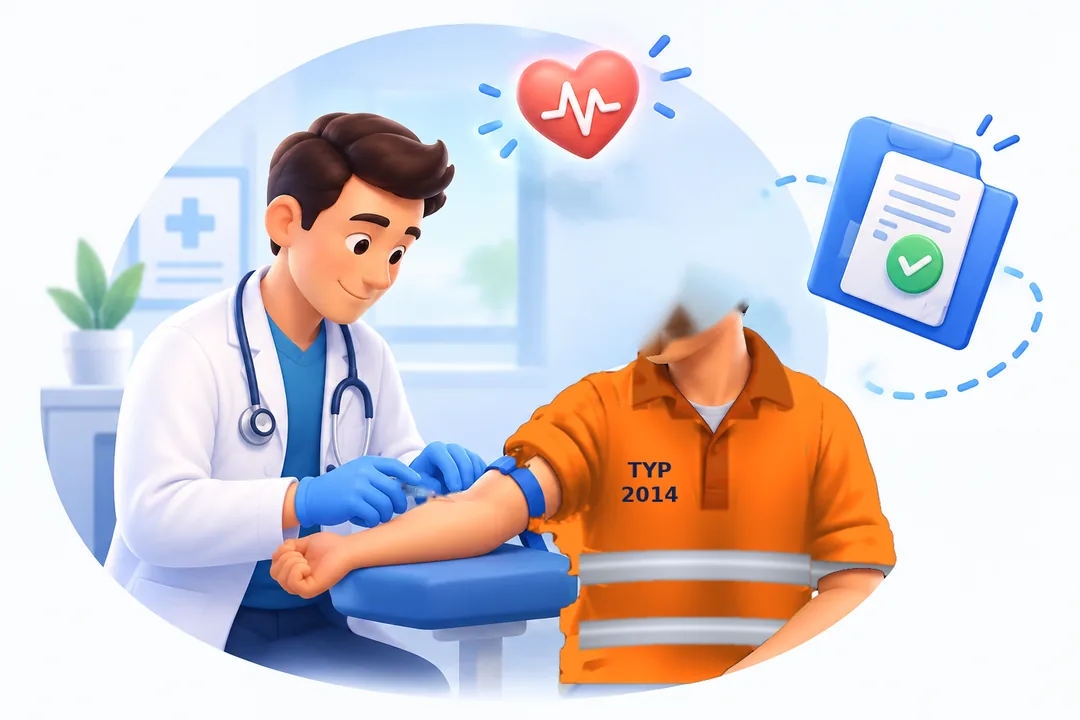
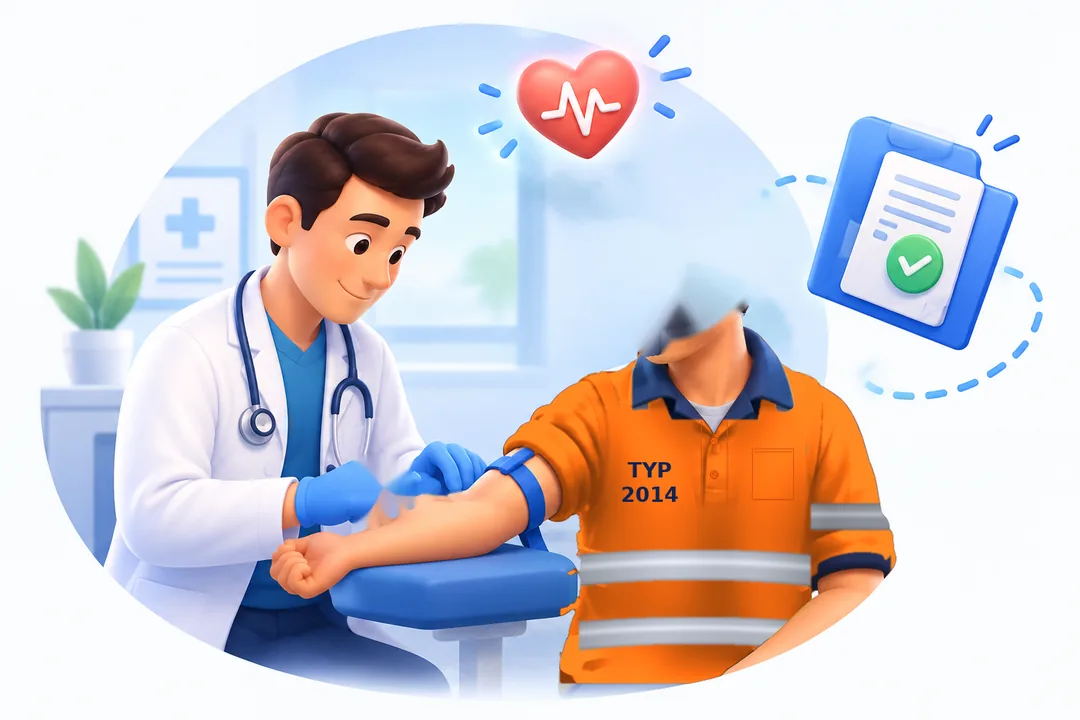
Add files via upload

diff --git a/index.html b/index.html
@@ -1,6 +1,7 @@
 <!DOCTYPE html>
 <html lang="es">
 <head>
+<!-- v686 (22/09/2026): RECONOCIMIENTOS MEDICOS - MOVIMIENTO MAS VISIBLE Y POLO COMO EL REAL DE LA EMPRESA (solo aspecto). Sobre la v685 subida. JC: "el movimiento se aprecia demasiado poco: el giro de cabeza un pelin mas y que lo haga tres veces; la jeringuilla que se retire un poco mas para que se aprecie" y mando FOTOS del polo real que entregan: naranja de manga larga, cuello AZUL MARINO, tapeta naranja con botones, bolsillo en el pecho, 2 franjas plata en el cuerpo y en las mangas, y puños azul marino. AHORA: (1) cabeza: 3 idas y vueltas claras de "no" a ±19 grados (antes ±14), entre los 2,3 y los 3,8 s; (2) mano de la jeringa: se RETIRA hacia atras y arriba (2 % de la escena) y vuelve a acercarse al brazo; para que no se vean dedos ni jeringa dobles, en el fondo (recmed_escena.webp) se han borrado los dedos y la jeringa; (3) polo en recmed_escena.webp: cuello azul marino (el original), tapeta naranja con 2 botones, bolsillo en el pecho del lado contrario a TYP 2014, 2 franjas plata en el cuerpo y 1 en la manga derecha (mas arriba), y puños azul marino (el derecho en el borde de la manga y el izquierdo en el remangado). Resto del ciclo de 8 s igual. NO cambia nada de como funciona la caja, ni tablas, ni BD. app.js NO cambia (solo su cache a ?v=686). Sube index.html + styles.css + recmed_escena.webp + recmed_cabeza.webp + recmed_mano.webp (las tres imagenes REEMPLAZAN a las de la v685). styles.css?v=63. -->
 <!-- v685 (21/09/2026): RECONOCIMIENTOS MEDICOS - ANIMACION SINCRONIZADA Y SUAVE, CON LA JERINGA (solo aspecto). Sobre la v684 (polo con 2 franjas plata, preparada pero sin subir: esta version la INCLUYE). JC paso una propuesta de ChatGPT: movimiento sutil, solo la cabeza, y sincronizado en 8 s: 0-2 s todo tranquilo; 2-3,5 s el medico acerca la jeringa y el trabajador hace "no, no, no"; 3,5-4,5 s quieto y el medico sigue; 4,5-5,5 s pulso del corazon + carpeta; 5,5-8 s reposo. AHORA: ciclo de 8 s con ese guion; el giro de la cara baja a ±14 grados (antes ±28) y casi sin desplazamiento; capa NUEVA .recJer con la mano del medico que sostiene la jeringa (fichero NUEVO recmed_mano.webp, con transparencia, 6 KB), que se acerca unos pocos pixeles hacia el brazo y vuelve; el puño de la bata queda fijo. Cuerpo, brazos y resto de la escena no se mueven. NO cambia nada de como funciona la caja, ni tablas, ni BD. app.js NO cambia (solo su cache a ?v=685). Sube index.html + styles.css + recmed_escena.webp + recmed_cabeza.webp + recmed_mano.webp (NUEVO). styles.css?v=62. -->
 <!-- v684 (21/09/2026): RECONOCIMIENTOS MEDICOS - POLO COMO EL DE REFERENCIA DE CHATGPT (solo aspecto). Sobre la v683 subida. JC trajo unas viñetas de ChatGPT con el trabajador en polo naranja de manga larga con franjas plata, y pidio copiarlo "quitando la vertical y el bolsillo". AHORA en recmed_escena.webp: DOS franjas reflectantes PLATA horizontales (una a la altura pecho-cintura, que sigue tambien por la manga derecha, y otra mas abajo, cerca del bajo), SIN franjas verticales y SIN bolsillo; cuello y tapeta de botones en un naranja mas oscuro, como el de referencia; "TYP / 2014" se queda en el pecho. recmed_cabeza.webp se regenera sobre la imagen nueva (el giro de la cara es el mismo de la v683). NOTA: las viñetas de ChatGPT NO se usan como fotogramas (son una foto de pantalla en baja calidad y cada viñeta redibuja la escena entera: daria saltos). NO cambia nada de como funciona la caja, ni tablas, ni BD. app.js NO cambia (solo su cache a ?v=684). Sube index.html + styles.css + recmed_escena.webp + recmed_cabeza.webp (las dos imagenes REEMPLAZAN a las de la v683). styles.css?v=61. -->
 <!-- v683 (21/09/2026): RECONOCIMIENTOS MEDICOS - EL CUELLO YA NO SE ENCOGE AL GIRAR Y LA ROPA ES UN POLO (solo aspecto). Sobre la v682 subida. JC: "cuando gira, el cuello se encoge y se expande, como si se lo partiese, se ve irreal" y "la ropa esta bien en naranja, pero es solo un polo de manga larga, no un chalequillo con un polo debajo; solo la franja de la cintura en color plata". AHORA: (1) la capa de la cabeza (recmed_cabeza.webp) se corta siguiendo la linea de la MANDIBULA: solo gira la cara; el cuello se queda en el fondo (recmed_escena.webp) y no se deforma; detras de la mandibula el fondo lleva piel de cuello para que al girar se vea cuello y no un hueco; el desplazamiento lateral del giro se reduce a la mitad; (2) en recmed_escena.webp el tronco se alisa: desaparecen los paneles, aberturas y costuras del chaleco y queda un polo naranja liso de manga larga (cuello y tapeta con botones se conservan) con UNA franja reflectante PLATA en la cintura, de lado a lado; "TYP / 2014" se queda en el pecho. Ciclo de 5 s igual. NO cambia nada de como funciona la caja, ni tablas, ni BD. app.js NO cambia (solo su cache a ?v=683). Sube index.html + styles.css + recmed_escena.webp + recmed_cabeza.webp (las dos imagenes REEMPLAZAN a las de la v682). styles.css?v=60. -->
@@ -476,7 +477,7 @@ if (typeof pdfjsLib !== 'undefined') {
 <!-- v107K77 (22/06/2026): LEGIBILIDAD — el gris de textos secundarios (--mu) era demasiado oscuro y casi no se leía (ayudas, etiquetas, "Rellenar fecha rápido"...). Aclarado de #527060 a #7d9e8b en styles.css; afecta a toda la app. Reversible. Sube styles.css + index.html (app.js NO cambia). NO requiere SQL. -->
 <!-- v107K84 (23/06/2026): PARPADEO DE LA ZONA DE SOLTAR — CAUSA RAÍZ ENCONTRADA Y ARREGLADA (en el CSS, no en el JS). La zona tiene encima una capa invisible (el input de "clic para seleccionar"). Una regla apagaba esa capa justo al iluminarse la zona, lo que cambiaba el elemento bajo el cursor y hacía oscilar la iluminación → parpadeo continuo. Quitada esa regla (.dz.ov input{pointer-events:none}) en styles.css: ahora la capa se mantiene fija durante el arrastre y NO parpadea. El drop sigue bien (drop() hace preventDefault). Sube styles.css + index.html (app.js NO cambia, sigue v=177). NO requiere SQL. -->
 <!-- v304 (14/07/2026): RECAMBIOS — la IA lee ahora TAMBIÉN NUESTRO CIF (paso 1 del plan "facturas de recambios por email"). Hasta ahora la empresa de un documento de recambios NO se leía del papel: se cogía de la sub-pestaña donde se arrastra (tallerEmpresaActiva). Esto añade un campo nuevo al prompt de callClaudeRecambio ("cif_cliente" = el CIF del destinatario, NOSOTROS; distinto de proveedor_nif, que es el del emisor) y, al subir, COMPARA ese CIF con la sub-pestaña: si el CIF es de otra empresa del grupo avisa por toast y deja nota en Observaciones ("⚠ REVISAR EMPRESA: el CIF de este documento (B90172735) es de TYP2014, pero se ha subido en la pestaña de HISPALIS"); si el CIF no se pudo leer o no es de ninguna de nuestras 4 empresas, deja una nota informativa. NO cambia la empresa por su cuenta (decide Juan Carlos), NO toca la conciliación, NO toca ninguna otra pestaña. Sirve desde el día 1 para cazar facturas subidas en la empresa equivocada, y a la vez comprueba en producción si la IA lee bien el CIF en todos los proveedores — que es el requisito para poder automatizar luego la entrada por correo. Sube app.js + index.html. NO requiere SQL (la nota va en la columna observaciones, que ya existe). node --check OK. cache app.js?v=304. -->
-<link rel="stylesheet" href="styles.css?v=62">
+<link rel="stylesheet" href="styles.css?v=63">
 <!-- v302 (13/07/2026): CONFIRMING BBVA — 2 mejoras del aviso. (1) Al marcar una factura cobrada por confirming, rellena sola el campo OBSERVACIONES con "Confirming BBVA · Liquidación <cesión> · cobrado DD/MM/AAAA" (si ya había una nota, la conserva y añade la del confirming detrás; no pisa nada). (2) El aviso verde (y el ámbar de duplicado) ahora tiene un botón "✓ Visto, cerrar" que lo quita de pantalla cuando ya lo has leído (mini-función _liqCerrar). Solo toca la función de confirming; nada más cambia. Sube app.js + index.html. NO requiere SQL. cache app.js?v=302. -->
 <!-- v301 (13/07/2026): FACTURAS EMITIDAS — COBROS POR CONFIRMING BBVA. Nueva zona verde para ARRASTRAR el justificante de liquidación de BBVA (factoring). La IA lee la tabla "Detalle de los créditos" y marca COBRADAS SOLAS las facturas que casan por NÚMERO + IMPORTE (doble comprobación); fecha de cobro = fecha de liquidación (NO la "fecha pago" del deudor), forma_cobro = "Confirming BBVA". Las que NO casan (no encontrada / importe no cuadra / ambiguas) NO se tocan y se listan en rojo para revisar a mano. Candado anti-duplicados por Nº de cesión (tabla liquidaciones_confirming): si llega la misma liquidación 2 veces, no vuelve a marcar. Casa por CIF+número, así vale igual para CEMEX, Holcim o cualquier deudor por este confirming. NO toca la subida de facturas normal ni nada más. Sube app.js + index.html. REQUIERE SQL previo (columna facturas_emitidas.forma_cobro + tabla liquidaciones_confirming, ya ejecutado). cache app.js?v=301. -->
 <!-- v300 (13/07/2026): RECAMBIOS (Taller) — separación de ~5 cm entre el botón "➕ Subir albarán" (azul) y "🧾 Subir factura" (gris) para no confundirlos con las prisas (margin-left:5cm en el botón de factura). Solo espaciado; no toca nada más. Sube solo index.html (app.js NO cambia, pero al subir el ?v=300 conviene subir también app.js para que el cache-buster cuadre). NO requiere SQL. cache app.js?v=300. -->
@@ -2967,6 +2968,6 @@ if (typeof pdfjsLib !== 'undefined') {
 <!-- v514 (Juan Carlos 11/08/2026): LOS REPASOS GUARDADOS DABAN "Cannot read properties of undefined (reading 'length') AL PULSAR VER O EXCEL. Culpa de la v512: por ahorrar sitio deje fuera de lo guardado los campos que venian vacios (difs, modo, y linea/rec cuando no habia). Pero el informe hace "a.difs.length" y el Excel hace "a.linea.tn" DANDO POR HECHO que existen, asi que al abrir un repaso guardado reventaba y los botones no hacian nada. Un objeto vacio ocupa 2 bytes: no se ahorraba nada y se rompia todo. Desde la v514 lo guardado tiene SIEMPRE la misma forma que lo recien cruzado (difs siempre array, modo siempre texto, linea y rec siempre objeto). IMPORTANTE: los repasos guardados con la v512/v513 se quedaron mal por dentro; hay que volver a cruzar el mes una vez para que se guarde bien. Solo app.js + index.html. NO requiere SQL. -->
 <!-- v515 (Juan Carlos 11/08/2026): TODAS LAS FAMILIAS A LA VISTA. Las pastillas de familia iban en una fila de tabla y salia barra de desplazamiento horizontal: habia que arrastrar para ver las ultimas. Ahora cada repaso es un bloque y las pastillas se reparten en varias lineas, todas visibles de golpe; los botones VER / EXCEL COMPLETO / X tambien bajan de linea si no caben. Va junto con el arreglo de la v514 (que no llego a subirse): los repasos guardados reventaban con "Cannot read properties of undefined (reading length)" porque la v512 dejaba fuera los campos vacios y el Excel hace a.difs.length dando por hecho que existen (traza confirmada por JC: factHolcimExcelPorMaterial linea 25582). Solo app.js + index.html. NO requiere SQL. IMPORTANTE: el repaso guardado con la v512/v513 esta mal por dentro; hay que quitarlo con la X y volver a cruzar el mes una vez. -->
 <!-- v516 (Juan Carlos 11/08/2026): REPARAR AL VUELO LOS REPASOS YA GUARDADOS. La v514/v515 arreglaron como se GUARDA, pero el repaso que JC ya tenia grabado con la v512 seguia mal por dentro y seguia reventando al pulsar EXCEL: solo salia bien "Nucleo Garraf -> Puerto Barcelona", la unica familia sin abonados y por eso la unica que nunca llegaba a la linea que peta (a.difs.length). Obligar a borrarlo con la X y volver a cruzar el mes entero es un apano, no un arreglo. Ahora, al abrir o exportar, lo guardado se REPARA en memoria antes de usarse: se le devuelve la forma que espera el informe (difs array, modo texto, linea y rec objeto). Funcionan igual los repasos nuevos y los viejos, sin que el usuario tenga que hacer nada. Solo app.js + index.html. NO requiere SQL. -->
-<script src="app.js?v=685"></script>
+<script src="app.js?v=686"></script>
 </body>
 </html>

diff --git a/styles.css b/styles.css
@@ -658,17 +658,17 @@ tbody tr.row-warn:hover{background:rgba(245,166,35,.22)}
 #cardSubirAlb .dz-s{font-size:10px}
 
 /* v680: escena animada de RECONOCIMIENTOS MEDICOS en la caja #dzRecmed (ilustracion de JC hecha en ChatGPT). Misma imagen en capas: fondo + corazon (mascara ovalada con borde difuminado, para que no se vea el recorte sobre el azul) + carpeta (clip-path).
-   v681/v682: ciclo de 8 s -> 5 s; nueva capa .recCab = la CABEZA del trabajador recortada (recmed_cabeza.webp, con transparencia; en recmed_escena.webp el hueco de detras esta rellenado) que dice "no, no, no" GIRANDO la cara a derecha e izquierda (v682: perspective + rotateY; en la v681 se INCLINABA y parecia decir que si. v683: la capa de la cabeza se corta por la MANDIBULA, el cuello se queda quieto en el fondo y ya no se encoge al girar) al principio de cada ciclo, como de broma porque le van a pinchar. Quitada la "respiracion" del fondo (desplazaba el fondo respecto a la cabeza). Ropa (v683/v684): un POLO naranja de manga larga liso (sin rastro del chaleco); v684: DOS franjas PLATA horizontales (pecho-cintura, que sigue por la manga derecha, y otra mas abajo), sin franjas verticales ni bolsillo, cuello y tapeta en naranja mas oscuro, y TYP 2014 grande en el pecho (pintado en la imagen).  v685: animacion SINCRONIZADA en un ciclo de 8 s (idea de JC/ChatGPT): 0-2 s quieto; 2-3,5 s el medico acerca la jeringa (capa .recJer = su mano con la jeringa, recmed_mano.webp) y el trabajador dice "no, no, no" con la cabeza, SUAVE (±14 grados); 3,5-4,5 s quieto y la mano vuelve; 4,5-5,5 s pulso del corazon + carpeta + punto verde; 5,5-8 s reposo. Solo se mueven cabeza, mano, corazon y carpeta: cuerpo y brazos fijos. */
+   v681/v682: ciclo de 8 s -> 5 s; nueva capa .recCab = la CABEZA del trabajador recortada (recmed_cabeza.webp, con transparencia; en recmed_escena.webp el hueco de detras esta rellenado) que dice "no, no, no" GIRANDO la cara a derecha e izquierda (v682: perspective + rotateY; en la v681 se INCLINABA y parecia decir que si. v683: la capa de la cabeza se corta por la MANDIBULA, el cuello se queda quieto en el fondo y ya no se encoge al girar) al principio de cada ciclo, como de broma porque le van a pinchar. Quitada la "respiracion" del fondo (desplazaba el fondo respecto a la cabeza). Ropa (v683/v684): un POLO naranja de manga larga liso (sin rastro del chaleco); v684: DOS franjas PLATA horizontales (pecho-cintura, que sigue por la manga derecha, y otra mas abajo), sin franjas verticales ni bolsillo, cuello y tapeta en naranja mas oscuro, y TYP 2014 grande en el pecho (pintado en la imagen).  v685: animacion SINCRONIZADA en un ciclo de 8 s (idea de JC/ChatGPT): 0-2 s quieto; 2-3,5 s el medico acerca la jeringa (capa .recJer = su mano con la jeringa, recmed_mano.webp) y el trabajador dice "no, no, no" con la cabeza, SUAVE (±14 grados); 3,5-4,5 s quieto y la mano vuelve; 4,5-5,5 s pulso del corazon + carpeta + punto verde; 5,5-8 s reposo. Solo se mueven cabeza, mano, corazon y carpeta: cuerpo y brazos fijos. v686: el "no" es un poco mas amplio (±19 grados) y son 3 idas y vueltas claras; la mano de la jeringa se RETIRA hacia atras y arriba (2 %) y vuelve a acercarse, para que se note; los dedos y la jeringa se han borrado del fondo para que al retirarse no se vean dobles. Polo como el real (foto de JC): cuello y puños azul marino, tapeta naranja con 2 botones, bolsillo en el pecho (lado contrario a TYP 2014), 2 franjas plata en el cuerpo y una en la manga. */
 .recFoto{position:relative;width:100%;max-width:420px;aspect-ratio:3/2;margin:0 auto 12px;border-radius:14px;overflow:hidden;isolation:isolate;background:#fafcfe;box-shadow:0 6px 16px rgba(30,41,51,.14)}
-.recArt{position:absolute;inset:0;background:url('recmed_escena.webp?v685') center/cover no-repeat}
+.recArt{position:absolute;inset:0;background:url('recmed_escena.webp?v686') center/cover no-repeat}
 .recBase{z-index:1}
-.recJer{z-index:2;background-image:url('recmed_mano.webp?v685');animation:recJer 8s ease-in-out infinite}
+.recJer{z-index:2;background-image:url('recmed_mano.webp?v686');animation:recJer 8s ease-in-out infinite}
 .recCor{z-index:3;-webkit-mask-image:radial-gradient(ellipse 9.5% 11.5% at 52.9% 13.6%,#000 62%,transparent 100%);mask-image:radial-gradient(ellipse 9.5% 11.5% at 52.9% 13.6%,#000 62%,transparent 100%);transform-origin:52.9% 14.2%;animation:recLate 8s ease-in-out infinite}
 .recCarp{z-index:4;clip-path:inset(10.9% 3.7% 50% 73.5%);transform-origin:85.5% 31.6%;animation:recCarpeta 8s ease-in-out infinite}
-.recCab{z-index:5;background-image:url('recmed_cabeza.webp?v685');transform-origin:62.4% 38%;animation:recNo 8s ease-in-out infinite}
+.recCab{z-index:5;background-image:url('recmed_cabeza.webp?v686');transform-origin:62.4% 38%;animation:recNo 8s ease-in-out infinite}
 .recPunto{position:absolute;z-index:6;right:4%;bottom:6%;width:9px;height:9px;border-radius:50%;background:#37c979;animation:recPunto 8s ease-in-out infinite}
-@keyframes recJer{0%,25%,56%,100%{transform:translate(0,0)}31%,47%{transform:translate(1.1%,0)}}
-@keyframes recNo{0%,27%,45%,100%{transform:perspective(500px) rotateY(0)}30.5%{transform:perspective(500px) translateX(-.25%) rotateY(-14deg)}34.5%{transform:perspective(500px) translateX(.25%) rotateY(14deg)}38.5%{transform:perspective(500px) translateX(-.2%) rotateY(-12deg)}42%{transform:perspective(500px) translateX(.1%) rotateY(6deg)}}
+@keyframes recJer{0%,24%,100%{transform:translate(0,0)}29%,33%{transform:translate(-2.1%,-.5%)}40%{transform:translate(0,0)}}
+@keyframes recNo{0%,29%,47%,100%{transform:perspective(500px) rotateY(0)}31.5%{transform:perspective(500px) translateX(-.3%) rotateY(-19deg)}34%{transform:perspective(500px) translateX(.3%) rotateY(19deg)}36.5%{transform:perspective(500px) translateX(-.3%) rotateY(-19deg)}39%{transform:perspective(500px) translateX(.3%) rotateY(19deg)}41.5%{transform:perspective(500px) translateX(-.25%) rotateY(-17deg)}44%{transform:perspective(500px) translateX(.15%) rotateY(12deg)}}
 @keyframes recLate{0%,56%,100%{transform:scale(1)}58.5%{transform:scale(1.09)}61%{transform:scale(1)}63.5%{transform:scale(1.07)}67%{transform:scale(1)}}
 @keyframes recCarpeta{0%,58%,100%{transform:scale(1) rotate(0)}62%{transform:scale(1.06) rotate(-2deg)}66%{transform:scale(1.04) rotate(1.5deg)}70%{transform:scale(1) rotate(0)}}
 @keyframes recPunto{0%,57%,100%{box-shadow:0 0 0 0 rgba(55,201,121,0)}62.5%{box-shadow:0 0 0 8px rgba(55,201,121,.18)}68%{box-shadow:0 0 0 0 rgba(55,201,121,0)}}
